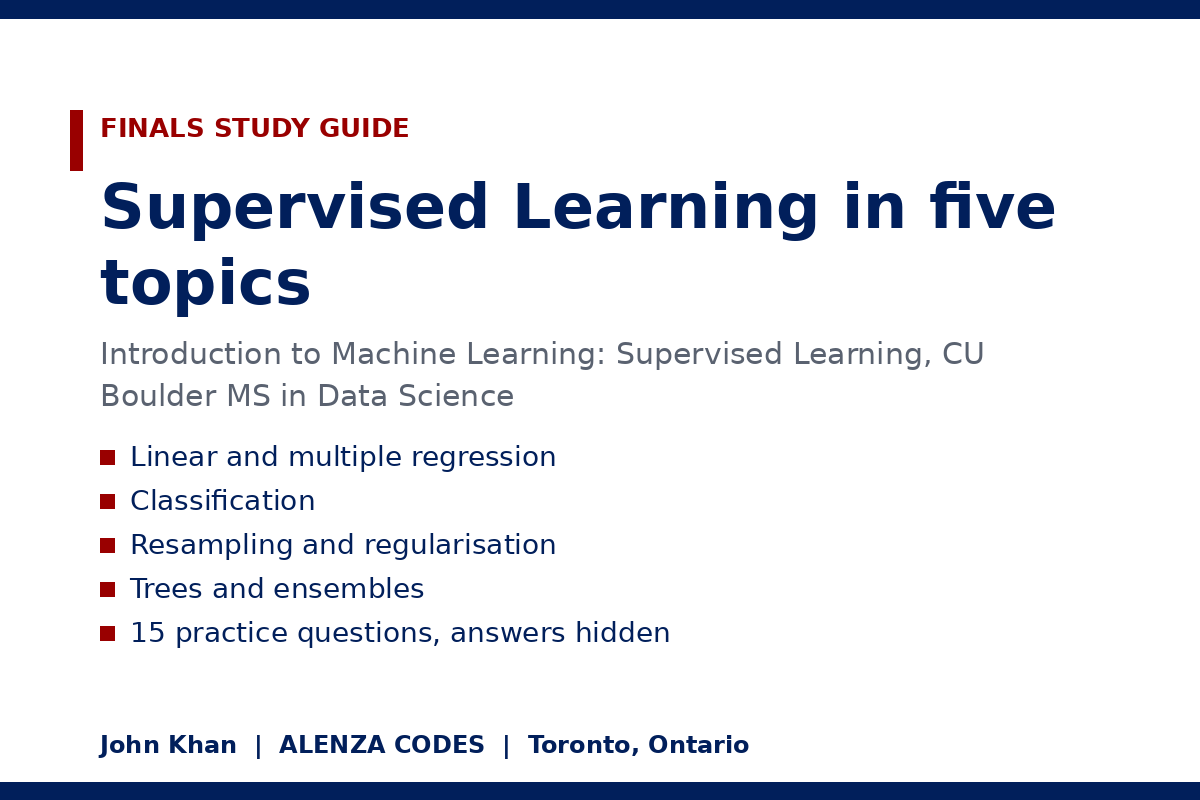
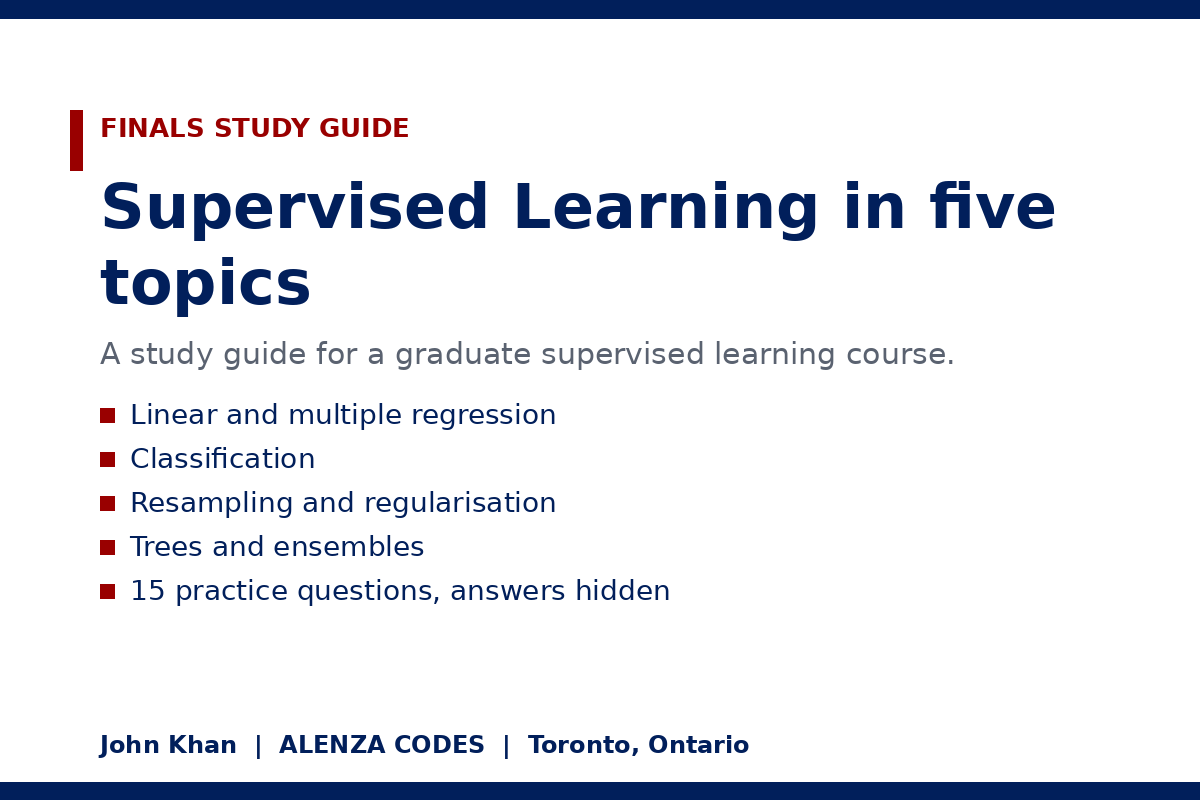
Remove course code and course name from the study guide

Changed region(s): [[0.0925, 0.5625, 0.555, 0.75], [0.0617, 0.4062, 0.8325, 0.5312], [0.0617, 0.7812, 0.555, 0.8125]]

diff --git a/study-guide.md b/study-guide.md
@@ -1,7 +1,7 @@
 # Supervised Learning Finals Study Guide
 
-Course: Introduction to Machine Learning: Supervised Learning (DTSA 5509), CU Boulder MS in Data Science on Coursera.
-One section per exam topic, following the five course modules. Each section ends with practice questions. Answers stay hidden until you click.
+A study guide for a graduate supervised learning course.
+One section per exam topic, five topics in all. Each section ends with practice questions. Answers stay hidden until you click.
 
 ---
 
@@ -133,5 +133,3 @@ Formulas to know: precision = TP / (TP + FP); recall = TP / (TP + FN); odds rati
 ## Diagram: the bias and variance trade off
 
 As model flexibility rises (smaller K in KNN, deeper trees, smaller λ), training error keeps falling, while test error falls and then rises again. The best model sits at the bottom of the test error curve. Cross validation is how you find that point without touching the test set.
-
-Sources checked: course page https://www.colorado.edu/program/data-science/coursera/curriculum/dtsa5509 and https://www.coursera.org/learn/introduction-to-machine-learning-supervised-learning

diff --git a/README.md b/README.md
@@ -1,6 +1,6 @@
 # Supervised Learning Finals Study Guide
 
-A finals study guide for Introduction to Machine Learning: Supervised Learning (DTSA 5509) in the CU Boulder MS in Data Science, built in Gamma from my notes. One card per exam topic, each ending with practice questions whose answers stay hidden until clicked.
+A finals study guide for a graduate supervised learning course, built in Gamma from my notes. One card per exam topic, each ending with practice questions whose answers stay hidden until clicked.
 
 ![Cover](cover.png)
 
@@ -22,7 +22,5 @@ Plus a cheat sheet card and a bias and variance diagram.
 | --- | --- |
 | study-guide.md | The full guide that was imported into Gamma, with all 15 practice questions and answers |
 | images/bias-variance-diagram.png | The diagram card (shape only, not real data) |
-
-Topics follow the course modules listed at https://www.colorado.edu/program/data-science/coursera/curriculum/dtsa5509
 
 Built by John Khan, ALENZA CODES, Toronto, Ontario.
